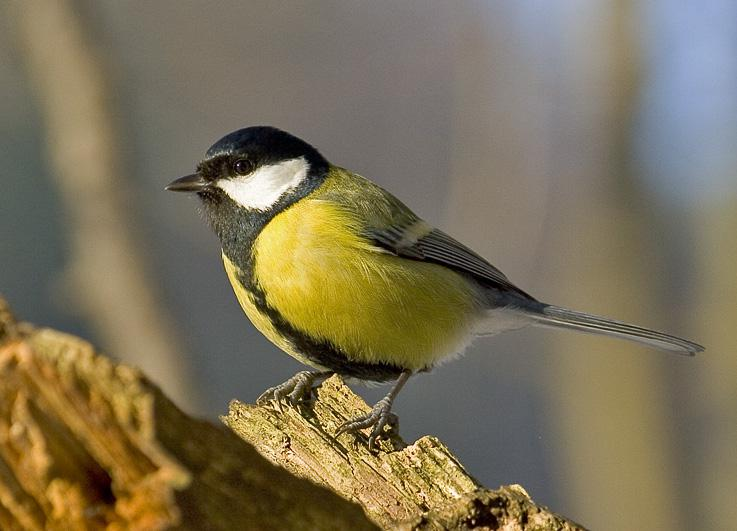
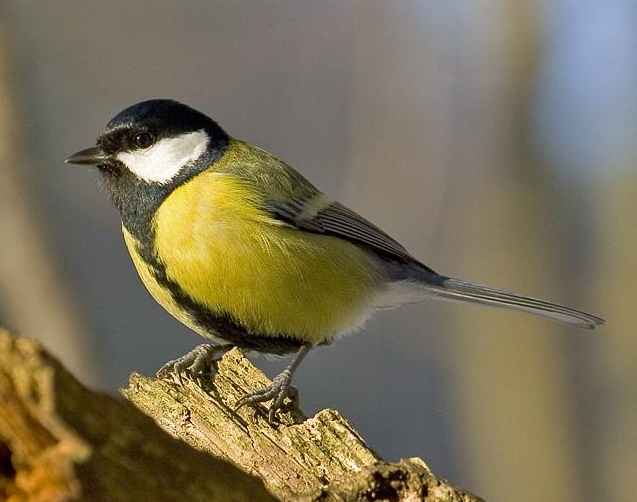
resized img

diff --git a/css/main.css b/css/main.css
@@ -95,6 +95,7 @@ header .oval {
 .flex-container img {
   width: 150px;
   height: 150px;
+  vertical-align: middle;
   border-radius: 50%;
   margin: 20px 10px;
   transition: all 1s;
@@ -216,4 +217,4 @@ footer h3 {
   font-size: 1.5rem;
 }
 
[2 lines of base64/hex data omitted]
